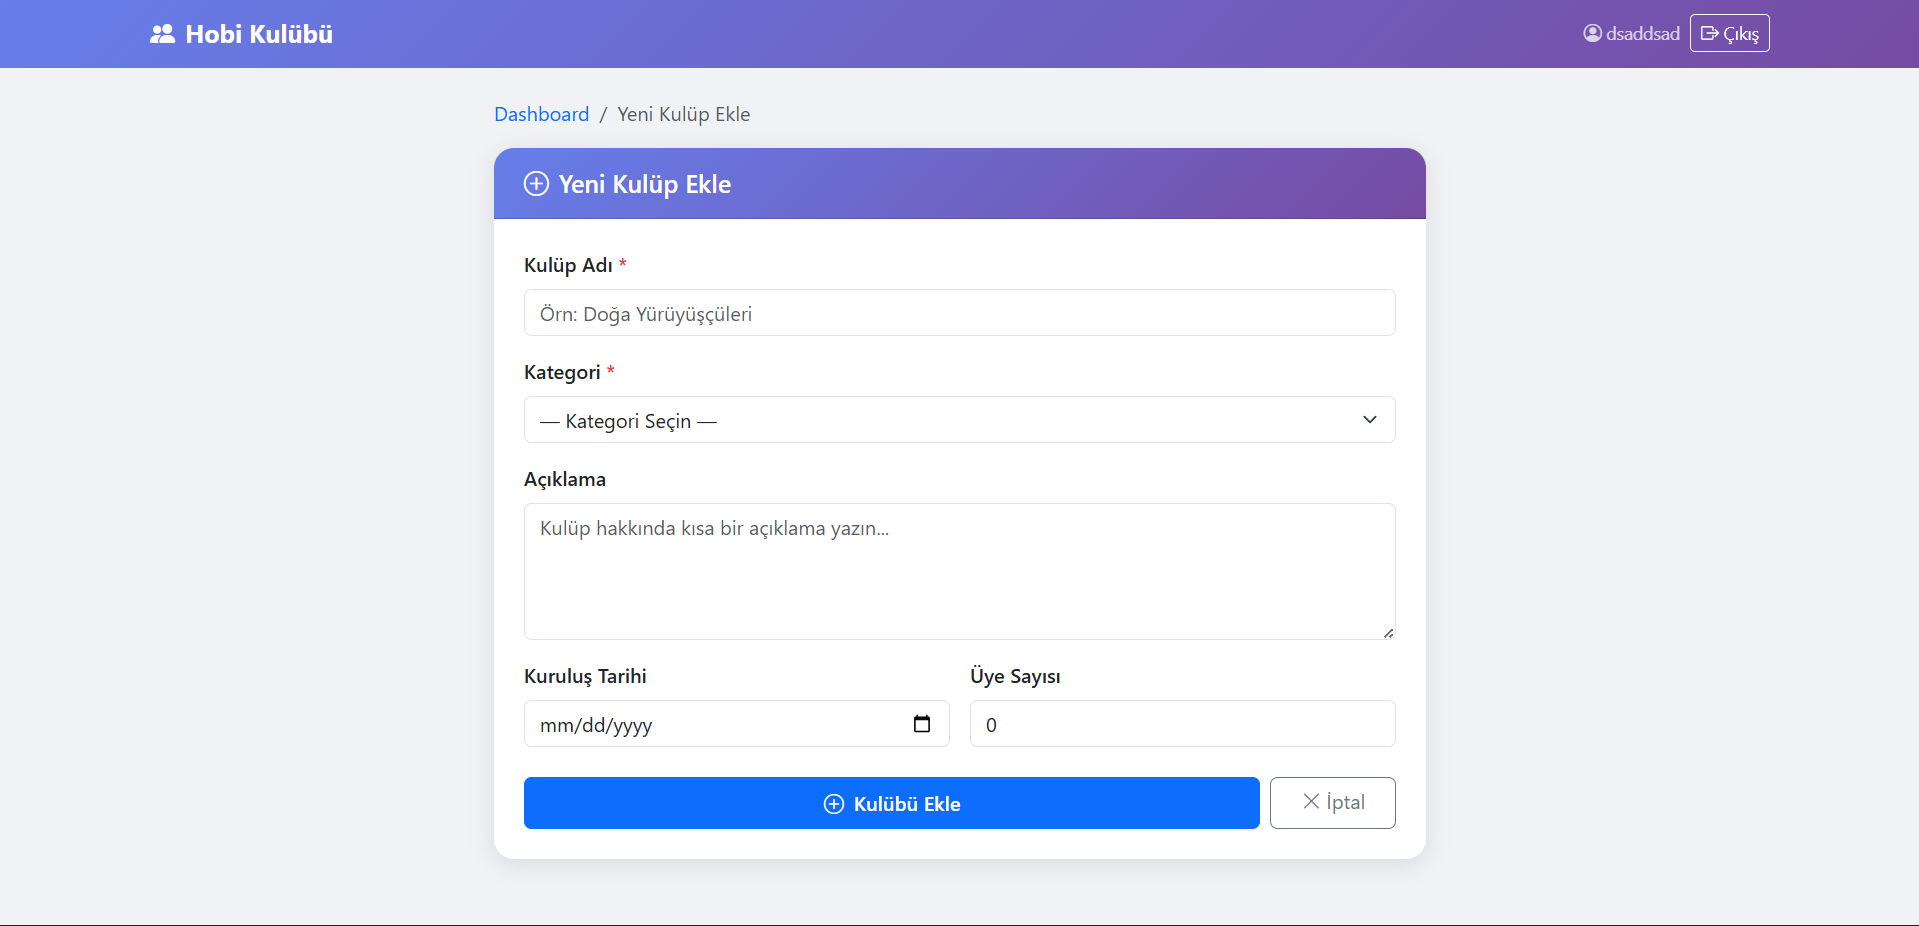
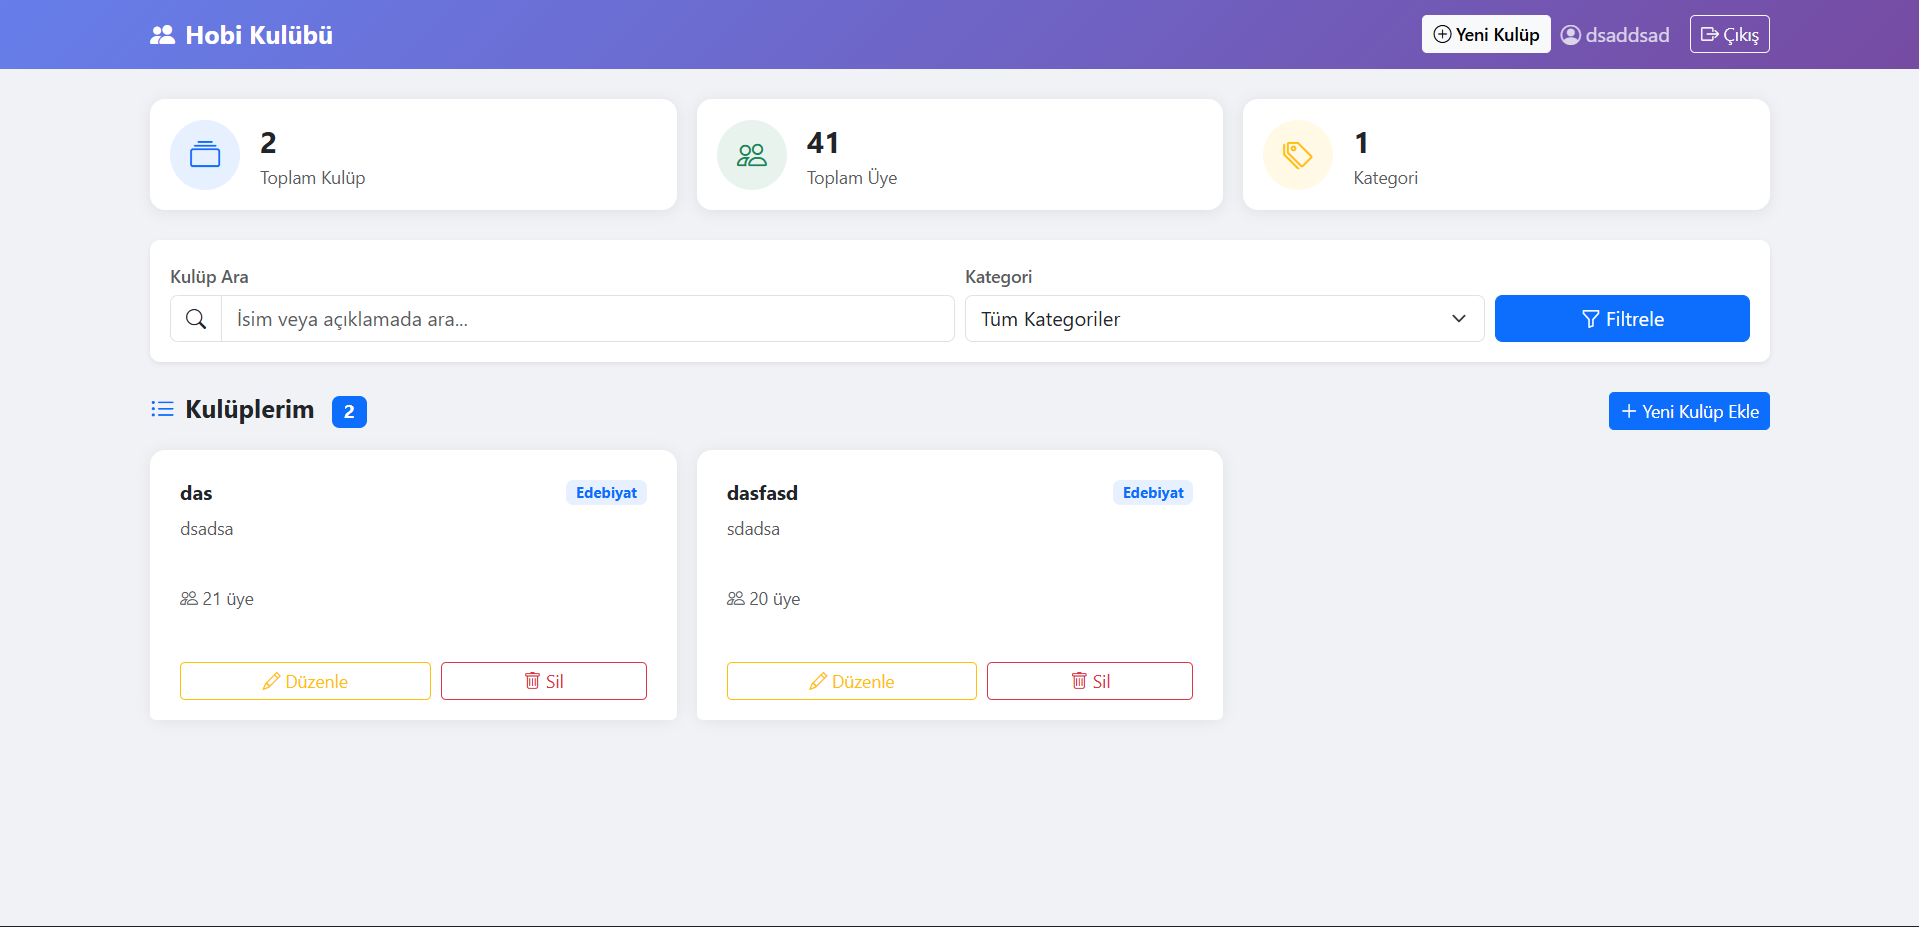
Readme Updated

diff --git a/AI.md b/AI.md
@@ -1,0 +1,59 @@
+## Prompt 1
+**Prompt:**
+XAMPP MySQL "shutdown unexpectedly" hatası alıyorum, nasıl çözebilirim?
+
+**Cevap:**
+Bu hata genellikle MySQL port çakışması (3306), bozuk InnoDB dosyaları veya başka bir MySQL servisinin çalışmasından kaynaklanır. Çözüm için:
+- XAMPP Control Panel'den MySQL portunu kontrol et
+- Windows Services'te başka MySQL servisleri varsa durdur
+- `xampp/mysql/data` içindeki logları kontrol et
+- Gerekirse `backup` klasöründen data kurtarma yapılır
+
+---
+
+## Prompt 2
+**Prompt:**
+PHP projemi XAMPP'a attım ama "Not Found" hatası alıyorum
+
+**Cevap:**
+Bu hata genellikle dosya yolunun yanlış olmasından kaynaklanır. Proje mutlaka `htdocs` içinde olmalı ve URL doğru yazılmalıdır:
+Örnek:
+`http://localhost/proje_adi/index.php`
+
+---
+
+## Prompt 3
+**Prompt:**
+PHP login yaptıktan sonra dashboard'a yönlendirme çalışmıyor
+
+**Cevap:**
+Sorun genellikle yanlış `header()` path kullanımından olur. Relative path yerine absolute path kullanılmalıdır:
+Örnek:
+`header('Location: /proje_adi/clubs/dashboard.php');`
+
+---
+
+## Prompt 4
+**Prompt:**
+PHP session logout yaptıktan sonra tekrar login sayfasına dönmüyor
+
+**Cevap:**
+Session düzgün temizlenmelidir:
+- `session_start()` kullanılmalı
+- `$_SESSION = []` yapılmalı
+- `session_destroy()` çağrılmalı
+- Redirect absolute path ile yapılmalı
+
+---
+
+## Prompt 5
+**Prompt:**
+Proje yapısında auth ve clubs klasörleri kullanmak doğru mu?
+
+**Cevap:**
+Evet, bu doğru bir yapıdır.:
+- `auth/` → login, register, logout
+- `clubs/` → dashboard ve CRUD işlemleri
+- `config.php` → merkezi yapı
+
+---

diff --git a/README.md b/README.md
@@ -49,14 +49,14 @@ PHP, MySQL ve Bootstrap 5 ile geliştirilmiş web tabanlı bir hobi kulübü yö
 
 **1. Projeyi İndir**
 ```bash
-git clone https://github.com/KULLANICI_ADINIZ/hobi-kulubu.git
+git clone https://github.com/m-YUSUF-d/Hobby-Club-Management-System.git
 ```
 
 **2. Dosyaları Sunucuya Koy**
 
 Yerel geliştirme için:
 ```
-C:\xampp\htdocs\hobi_kulubu\
+C:\xampp\htdocs\Hobby-Club-Management-System\
 ```
 
 **3. Veritabanını Oluştur**
@@ -137,30 +137,16 @@ Hobby Club Management System
 
 ## 📸 Ekran Görüntüleri
 
-> Ekran görüntülerini ekledikten sonra aşağıdaki satırları güncelleyin.
-
 ### Giriş Sayfası
-![Giriş Sayfası](screenshots/login.png)
+![Giriş Sayfası](images/image1.png)
 
 ### Dashboard
-![Dashboard](screenshots/dashboard.png)
+![Dashboard](images/image2.png)
 
 ---
 
 ## 🎥 Video Tanıtım
 
-> Uygulamayı tanıttığınız videoyu YouTube'a veya Google Drive'a yükledikten sonra aşağıdaki bağlantıyı güncelleyin.
+📺 [Uygulama Tanıtım Videosu](https://youtu.be/6t6k1DZNtD4)
 
-📺 [Uygulama Tanıtım Videosu](https://www.youtube.com/watch?v=VIDEO_ID)
 
----
-
-## 👤 Geliştirici
-
-**Ad Soyad** — [GitHub](https://github.com/KULLANICI_ADINIZ)
-
----
-
-## 📄 Lisans
-
-Bu proje bir ders ödevi kapsamında geliştirilmiştir.
